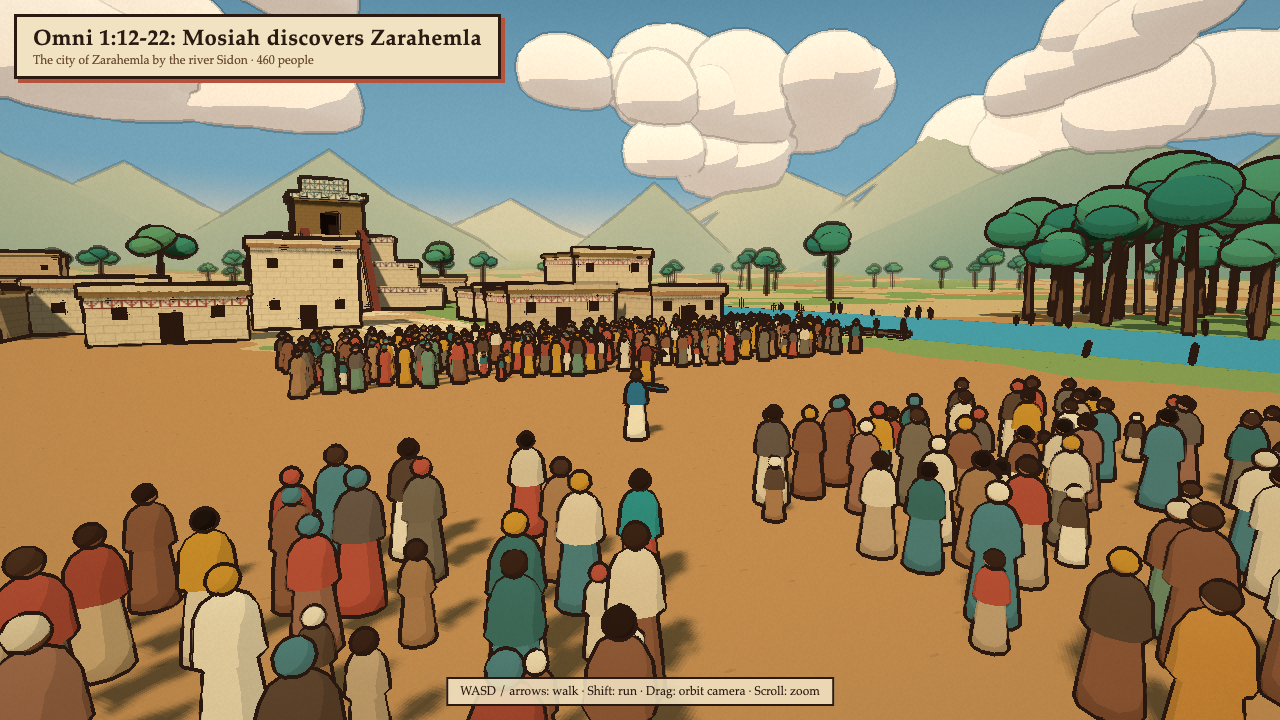
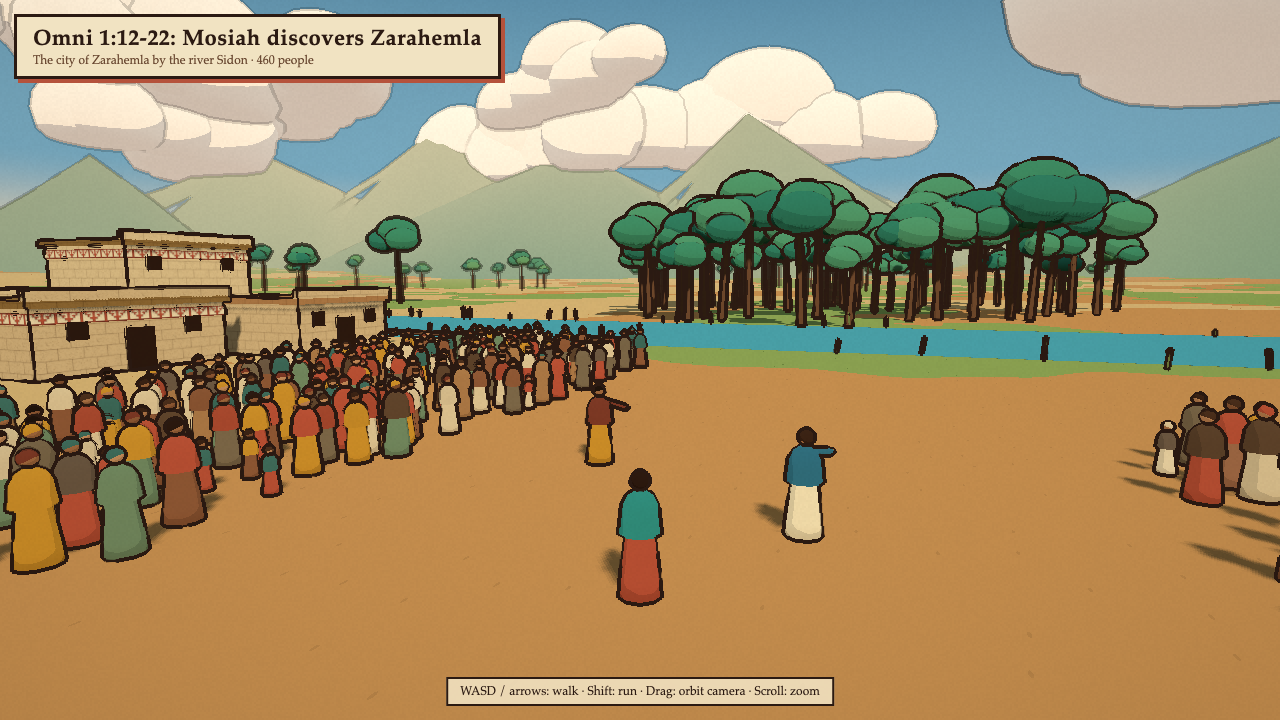
feat: polish toon scenes bom-13 to bom-18

diff --git a/styles/toon/scenes/bom-16.js b/styles/toon/scenes/bom-16.js
@@ -3,7 +3,7 @@ import { BASE_STYLE, GROUND_COLORS, ROBES, Frame, figure, raiseArm, tents, makeR
 
 const TEMPLE = [0, -78];
 const TOWER = [-15, -34];
-const TOWER_H = 10;
+const TOWER_H = 8.5;
 const BENJAMIN_COLORS = { robe: '#efe3c2', mantle: '#8a2f3a', skin: '#a8724a', hair: '#d9d0c0', sash: '#c8912e' };
 
 function tower(ctx) {
@@ -15,21 +15,21 @@ function tower(ctx) {
   for (const x of [-s, s]) for (const z of [-s, s]) {
     f.box(wood, [0.45, TOWER_H, 0.45], [x, TOWER_H / 2, z], { collide: true });
   }
-  for (const y of [3, 6.5]) {
+  for (const y of [2.8, 5.8]) {
     for (const z of [-s, s]) f.box(dark, [s * 2, 0.22, 0.22], [0, y, z]);
     for (const x of [-s, s]) f.box(dark, [0.22, 0.22, s * 2], [x, y, 0]);
   }
   f.box(k.toon('#9c6b4e'), [s * 2 + 1.4, 0.35, s * 2 + 1.4], [0, TOWER_H + 0.17, 0]);
-  for (const z of [-1, 1]) f.box(k.fretMat('#8a2f3a', '#efe3c2'), [s * 2 + 1.4, 0.8, 0.12], [0, TOWER_H + 0.75, z * (s + 0.7)], { uv: { su: 2.4, sv: 0.8, oy: 0.4, local: true, flatCaps: true } });
-  for (const x of [-1, 1]) f.box(k.fretMat('#8a2f3a', '#efe3c2'), [0.12, 0.8, s * 2 + 1.4], [x * (s + 0.7), TOWER_H + 0.75, 0], { uv: { su: 2.4, sv: 0.8, oy: 0.4, local: true, flatCaps: true } });
-  for (let i = 0; i < 12; i++) f.box(dark, [1.2, 0.12, 0.12], [0, 0.8 * i + 0.5, s + 0.5]);
+  for (const z of [-1, 1]) f.box(k.fretMat('#8a2f3a', '#efe3c2'), [s * 2 + 1.4, 0.5, 0.12], [0, TOWER_H + 0.6, z * (s + 0.7)], { uv: { su: 2.4, sv: 0.5, oy: 0.25, local: true, flatCaps: true } });
+  for (const x of [-1, 1]) f.box(k.fretMat('#8a2f3a', '#efe3c2'), [0.12, 0.5, s * 2 + 1.4], [x * (s + 0.7), TOWER_H + 0.6, 0], { uv: { su: 2.4, sv: 0.5, oy: 0.25, local: true, flatCaps: true } });
+  for (let i = 0; i < TOWER_H / 0.8; i++) f.box(dark, [1.2, 0.12, 0.12], [0, 0.8 * i + 0.5, s + 0.5]);
   for (const x of [-0.6, 0.6]) f.box(dark, [0.12, TOWER_H, 0.12], [x, TOWER_H / 2, s + 0.5]);
   f.box(k.toon('#c8912e'), [0.15, 3, 0.15], [s + 0.5, TOWER_H + 1.8, -s - 0.5]);
   f.box(k.toon('#8a2f3a'), [1.4, 0.9, 0.05], [s + 1.2, TOWER_H + 2.8, -s - 0.5]);
   f.build();
   ctx.exclude({ kind: 'circle', x: TOWER[0], z: TOWER[1], r: 5 });
   const y = ctx.terrainHeight(TOWER[0], TOWER[1]) + TOWER_H + 0.35;
-  const b = figure(ctx, BENJAMIN_COLORS, [TOWER[0], TOWER[1] + 0.6], { facing: [5, 40], y, scale: 1.25, clear: 0 });
+  const b = figure(ctx, BENJAMIN_COLORS, [TOWER[0], TOWER[1] + 0.6], { facing: [-6, 40], y, scale: 1.7, clear: 0 });
   raiseArm(ctx, b, BENJAMIN_COLORS, 1, 2.3);
   raiseArm(ctx, b, BENJAMIN_COLORS, -1, 0.5);
 }
@@ -107,8 +107,8 @@ export default {
   },
 
   player: {
-    start: [-10.6, -4],
-    lookAt: [-10, -44],
+    start: [-11.4, -12],
+    lookAt: [-15.5, -40],
     colors: { robe: '#b5523b', mantle: '#2f8f8a', skin: '#a8724a', hair: '#2b1a12', sash: '#c8912e' },
   },
 };

diff --git a/styles/toon/scenes/bom-18.js b/styles/toon/scenes/bom-18.js
@@ -5,8 +5,8 @@ import { BASE_STYLE, GROUND_COLORS, ROBES, boxes, figure, glow, raiseArm, water,
 const POOL = [0, -10];
 const POOL_R = 9;
 const WATER_Y = 0.24;
-const ALMA = [-0.7, -6.6];
-const HELAM = [0.5, -6.9];
+const ALMA = [-2.4, -4.4];
+const HELAM = [-1.2, -4.7];
 const ALMA_COLORS = { robe: '#e6d8b8', mantle: '#c8b48a', skin: '#a8724a', hair: '#8a7a6a' };
 const HELAM_COLORS = { robe: '#d9c7a3', mantle: '#8c5a3c', skin: '#9c6a45', hair: '#2b1a12' };
 
@@ -105,9 +105,9 @@ export default {
   custom(ctx) {
     pool(ctx);
     const sink = WATER_Y - 0.75;
-    const alma = figure(ctx, ALMA_COLORS, ALMA, { facing: [HELAM[0], HELAM[1] + 3], y: sink, clear: 0 });
+    const alma = figure(ctx, ALMA_COLORS, ALMA, { facing: [HELAM[0], HELAM[1] + 3], y: sink, clear: 0, scale: 1.1 });
     raiseArm(ctx, alma, ALMA_COLORS, 1, 2.6);
-    figure(ctx, HELAM_COLORS, HELAM, { facing: [ALMA[0], ALMA[1] + 2], y: sink, clear: 0 });
+    figure(ctx, HELAM_COLORS, HELAM, { facing: [ALMA[0], ALMA[1] + 2], y: sink, clear: 0, scale: 1.1 });
     glow(ctx, [(ALMA[0] + HELAM[0]) / 2, 1.6, ALMA[1]], 4, '#fff6d8', 0.3);
     ctx.exclude({ kind: 'circle', x: POOL[0], z: POOL[1], r: POOL_R + 1.4 });
   },
@@ -121,16 +121,16 @@ export default {
     minSpacing: 0.66,
     facing: ALMA,
     colors: ROBES,
-    aisles: [{ from: [0, 30], to: [0, 0], width: 3 }],
+    aisles: [{ from: [0.8, 30], to: [0.4, 0], width: 4.4 }],
     groups: [
       { center: POOL, radius: [POOL_R + 1.4, 20], angle: [-2.4, 2.4], count: 190, kneel: 0.12, children: 0.12 },
-      { center: [3.5, 0.4], radius: [0, 1.6], count: 6, insideClear: true, facing: ALMA },
+      { center: [4.6, 1.2], radius: [0, 1.6], count: 6, insideClear: true, facing: ALMA },
     ],
   },
 
   player: {
-    start: [1.5, 2],
-    lookAt: [-0.5, -8],
+    start: [0.6, -0.4],
+    lookAt: [-1.2, -8],
     colors: { robe: '#b5523b', mantle: '#2f8f8a', skin: '#a8724a', hair: '#2b1a12', sash: '#c8912e' },
   },
 };

diff --git a/styles/toon/scenes/bom-14.js b/styles/toon/scenes/bom-14.js
@@ -71,7 +71,7 @@ export default {
 
   sky: { zenith: '#151c44', mid: '#4a4a7c', horizon: '#e8986a', ground: '#2e2a40', glowColor: '#ffc27a', glowDir: [-0.9, 0.08, 0.2] },
 
-  sun: { dir: [-0.85, 0.32, 0.25], color: '#ffb27a', intensity: 1.5, hemi: { sky: '#7b7cb8', ground: '#3b2e3a', intensity: 1.4 }, shadowSize: 45 },
+  sun: { dir: [-0.85, 0.32, 0.25], color: '#ffb27a', intensity: 1.9, hemi: { sky: '#9a9ccf', ground: '#5a4a50', intensity: 2.0 }, shadowSize: 45 },
 
   ground: {
     size: 900, segments: 220, flatRadius: 60, hillHeight: 26, undulation: 0.35,
@@ -88,17 +88,10 @@ export default {
   ],
 
   custom(ctx) {
-    kneeling(ctx, ENOS_COLORS, ENOS, { facing: [-20, -9], bow: 0.18 });
+    kneeling(ctx, ENOS_COLORS, ENOS, { facing: [-20, -9], bow: 0.18, scale: 1.2 });
     gear(ctx);
     stars(ctx, { count: 700, minY: 0.3 });
     moon(ctx);
-    let named = false;
-    ctx.onFrame(() => {
-      if (named) return;
-      const p = document.querySelector('.hud-title p');
-      if (p) p.textContent = 'Alone among the trees, from day into night';
-      named = !!p;
-    });
     const rng = makeRng(41);
     const ferns = [];
     for (let i = 0; i < 90; i++) {
@@ -123,7 +116,7 @@ export default {
   light: {
     beams: [{ from: [ENOS[0] - 4, 60, ENOS[1] - 6], to: { at: ENOS, lift: 0.5 }, width: [7, 2.6], color: '#fff2c9', intensity: 0.14, layers: 2, stripes: 18, fadeLow: 0.08 }],
     glows: [{ at: ENOS, lift: 0.9, size: 5, color: '#ffe9b8', opacity: 0.4 }],
-    pointLights: [{ at: ENOS, lift: 3, color: '#ffe6b0', intensity: 6, distance: 14 }],
+    pointLights: [{ at: ENOS, lift: 3, color: "#ffe6b0", intensity: 10, distance: 18 }],
   },
 
   clouds: {
@@ -134,8 +127,8 @@ export default {
   },
 
   player: {
-    start: [2.2, 0.5],
-    lookAt: [5, -9],
+    start: [-2.9, -5.6],
+    lookAt: [6.6, -8.6],
     colors: { robe: '#7a6a52', mantle: '#4f7f80', skin: '#a8724a', hair: '#2b1a12', sash: '#c8912e' },
   },
 };

diff --git a/styles/toon/scenes/bom-17.js b/styles/toon/scenes/bom-17.js
@@ -108,17 +108,17 @@ function hall(ctx) {
 }
 
 function people(ctx, floorY) {
-  const noah = kneeling(ctx, NOAH_COLORS, NOAH, { facing: [0, 0], scale: 1.15, bow: -0.05 });
+  const noah = kneeling(ctx, NOAH_COLORS, NOAH, { facing: [0, 0], scale: 1.5, bow: -0.05 });
   noah.position.y = floorY + 0.5 + 0.7 - 0.3;
-  const crown = addMesh(ctx, new THREE.CylinderGeometry(0.16, 0.15, 0.14, 10, 1, true), ctx.kit.toon(GOLD, { side: THREE.DoubleSide }));
-  crown.position.set(NOAH[0], noah.position.y + 1.13 * 1.15 + 0.08, NOAH[1]);
+  const crown = addMesh(ctx, new THREE.CylinderGeometry(0.21, 0.2, 0.18, 10, 1, true), ctx.kit.toon(GOLD, { side: THREE.DoubleSide }));
+  crown.position.set(NOAH[0], noah.position.y + 1.13 * 1.5 + 0.08, NOAH[1]);
 
   const ab = figure(ctx, ABINADI_COLORS, ABINADI, { facing: NOAH, scale: 1.05, clear: 1.5 });
   ab.children[2].material = ctx.kit.toon('#ffe9c0', { emissive: '#d8b070' });
   raiseArm(ctx, ab, ABINADI_COLORS, 1, 2.4);
   const by = ctx.groundHeight(...ABINADI);
-  glow(ctx, [ABINADI[0], by + 1.68, ABINADI[1]], 3.4, '#fff4d0', 1, 0.06);
-  glow(ctx, [ABINADI[0], by + 1.2, ABINADI[1]], 5, '#ffe6b0', 0.3, 0.04);
+  glow(ctx, [ABINADI[0], by + 1.68, ABINADI[1]], 2.6, '#fff4d0', 0.55, 0.06);
+  glow(ctx, [ABINADI[0], by + 1.2, ABINADI[1]], 5, '#ffe6b0', 0.2, 0.04);
   const pl = new THREE.PointLight('#fff0c8', 5, 7, 1.5);
   pl.position.set(ABINADI[0], by + 2.3, ABINADI[1]);
   ctx.scene.add(pl);
@@ -176,8 +176,8 @@ export default {
   },
 
   player: {
-    start: [1.2, -7],
-    lookAt: [0.2, -30],
+    start: [1.8, -10.5],
+    lookAt: [-1.2, -30],
     colors: { robe: '#b5523b', mantle: '#2f8f8a', skin: '#a8724a', hair: '#2b1a12', sash: '#c8912e' },
   },
 };

diff --git a/styles/toon/scenes/bom-13.js b/styles/toon/scenes/bom-13.js
@@ -68,7 +68,7 @@ export default {
 
   custom(ctx) {
     houses(ctx);
-    const jacob = figure(ctx, JACOB_COLORS, JACOB, { facing: [0, 20], scale: 1.04 });
+    const jacob = figure(ctx, JACOB_COLORS, JACOB, { facing: [0, 20], scale: 1.12 });
     raiseArm(ctx, jacob, JACOB_COLORS, 1, 2.5);
     figure(ctx, SHEREM_COLORS, SHEREM, { facing: [8, -3], pose: 'lying', clear: 1.8 });
     const y = ctx.groundHeight(SHEREM[0], SHEREM[1]);
@@ -86,7 +86,7 @@ export default {
     minSpacing: 0.62,
     facing: SHEREM,
     colors: ROBES,
-    aisles: [{ from: [0, 30], to: [0, 2], width: 3.4 }],
+    aisles: [{ from: [-1, 30], to: [-1, 0], width: 6 }],
     keepClear: [{ kind: 'circle', x: 0.3, z: -4.5, r: 4.6 }, { kind: 'rect', x: 0, z: -9.5, hx: 3.4, hz: 2.6 }],
     groups: [
       { center: [0.3, -4.5], radius: [5, 20], angle: [-2.35, 2.35], count: 480, kneel: 0.08, children: 0.12 },
@@ -94,8 +94,8 @@ export default {
   },
 
   player: {
-    start: [0, 3.5],
-    lookAt: [0, -5],
+    start: [-1.9, 1.6],
+    lookAt: [-0.2, -8],
     colors: { robe: '#b5523b', mantle: '#2f8f8a', skin: '#a8724a', hair: '#2b1a12', sash: '#c8912e' },
   },
 };

diff --git a/styles/toon/scenes/bom-15.js b/styles/toon/scenes/bom-15.js
@@ -3,8 +3,8 @@ import * as THREE from 'three';
 import { BASE_STYLE, GROUND_COLORS, ROBES, boxes, figure, house, makeRng, between, raiseArm, water } from './lib/bom-13-kit.js';
 
 const RIVER = { x: 36, half: 10 };
-const MOSIAH = [-2.5, 6];
-const ZARAHEMLA = [2.5, -2];
+const MOSIAH = [-0.8, 4.2];
+const ZARAHEMLA = [2.2, -0.8];
 const MOSIAH_COLORS = { robe: '#efe3c2', mantle: '#2f6f8a', skin: '#a8724a', hair: '#3a2418', sash: '#c8912e' };
 const ZARA_COLORS = { robe: '#c8912e', mantle: '#7a3a2a', skin: '#9c6a45', hair: '#1f140e', sash: '#e6d8b8' };
 
@@ -135,8 +135,8 @@ export default {
   },
 
   player: {
-    start: [-7, 14],
-    lookAt: [8, -12],
+    start: [-3.8, 2.4],
+    lookAt: [6, -1.2],
     colors: { robe: '#b5523b', mantle: '#2f8f8a', skin: '#a8724a', hair: '#2b1a12', sash: '#c8912e' },
   },
 };
